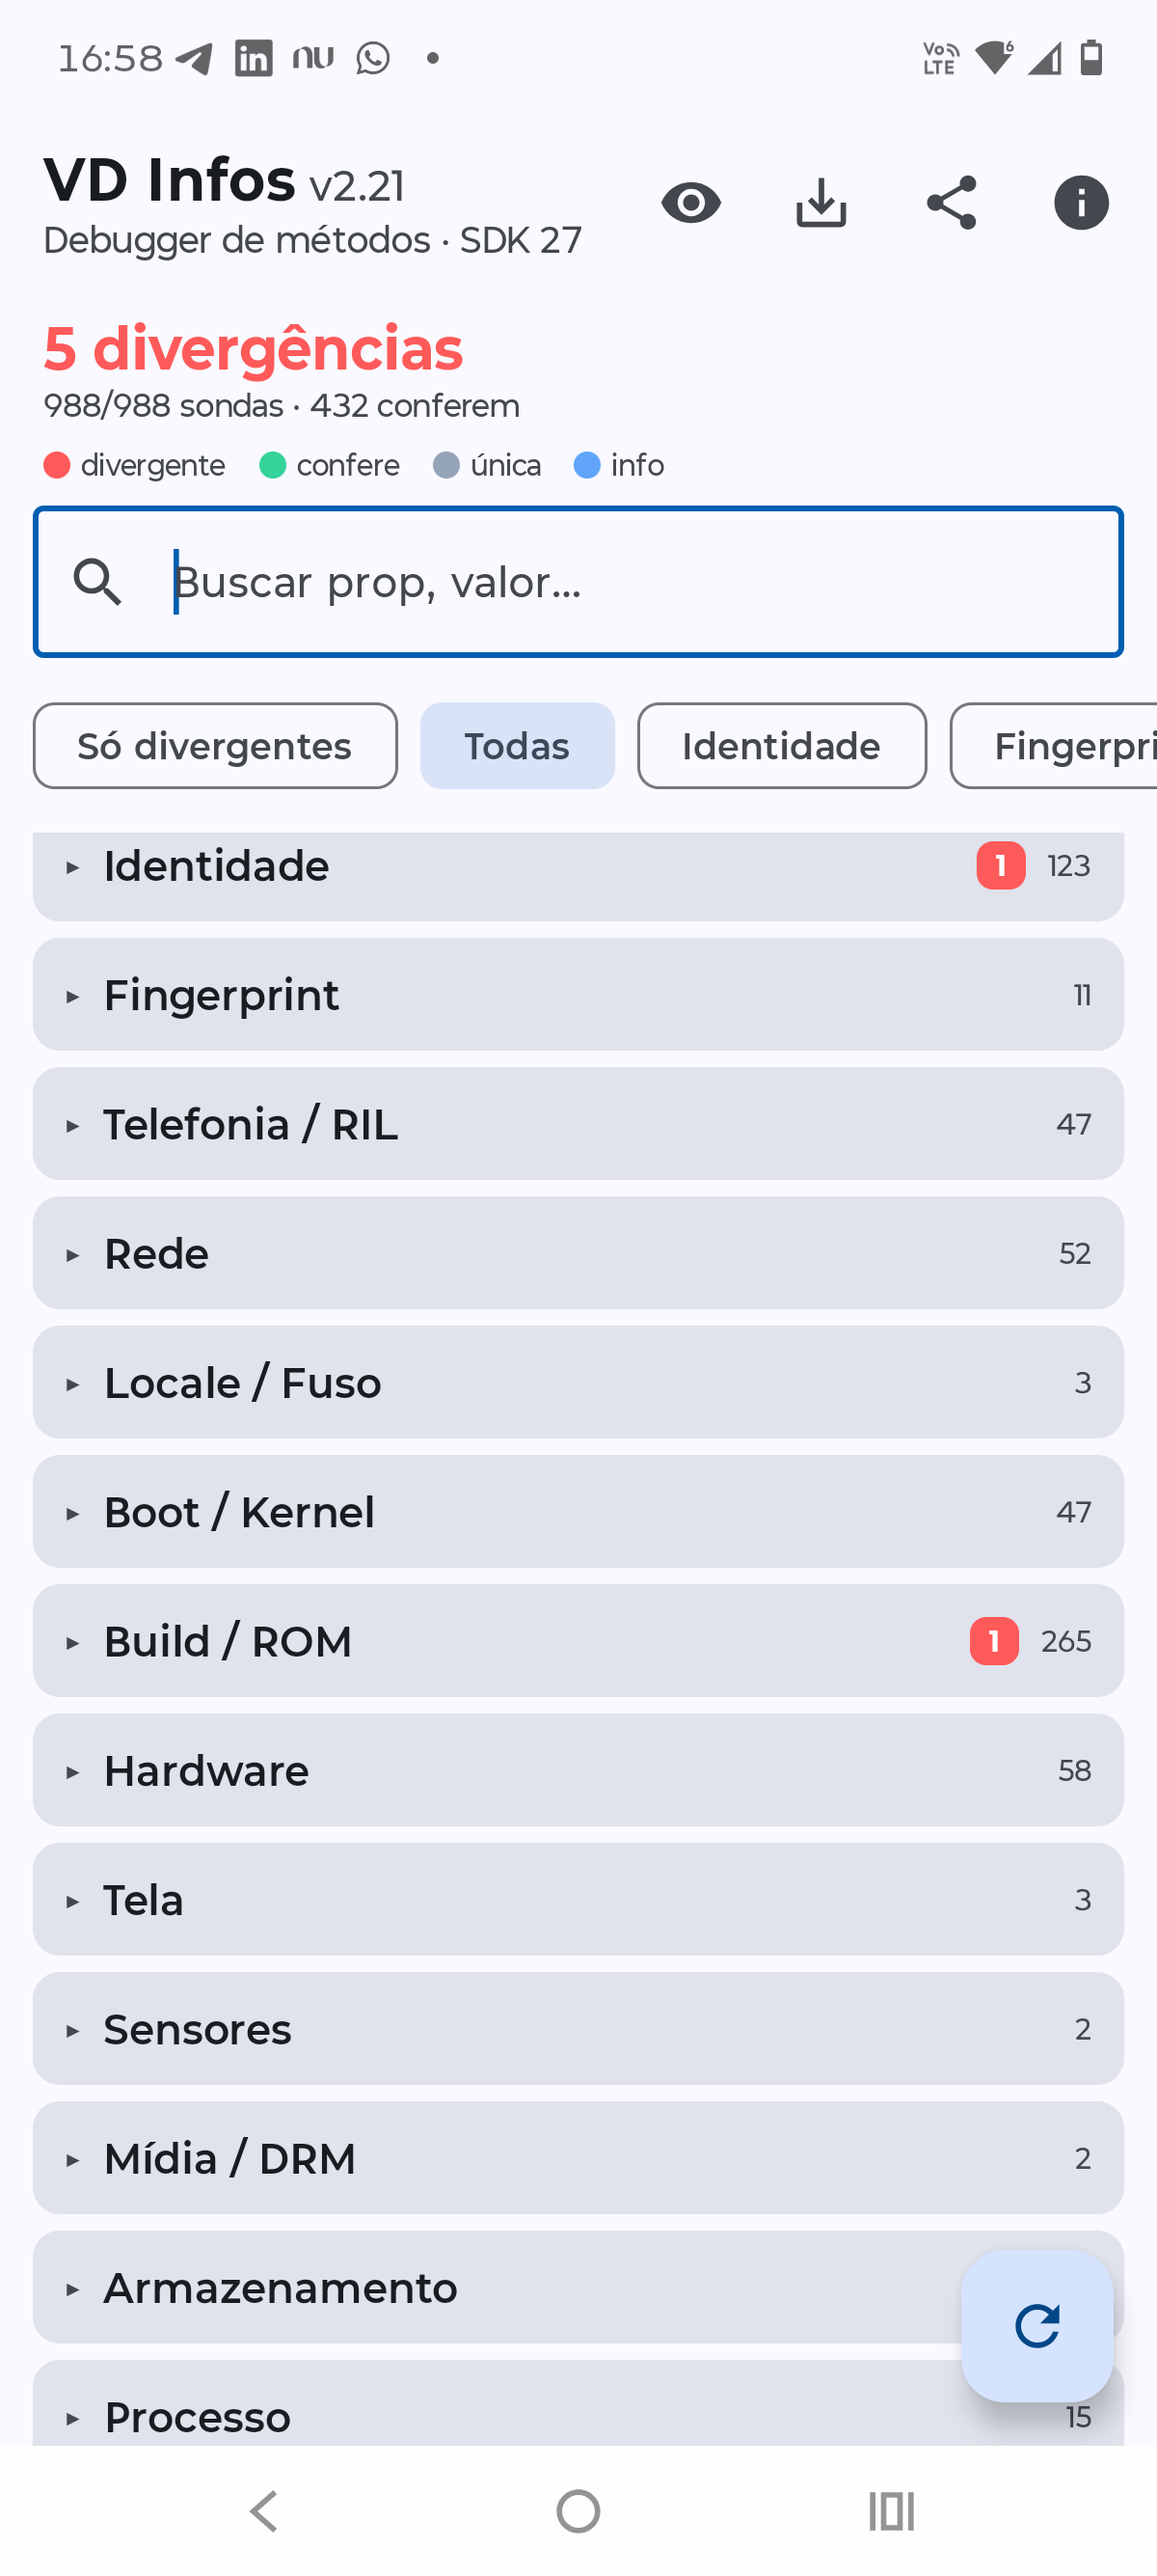
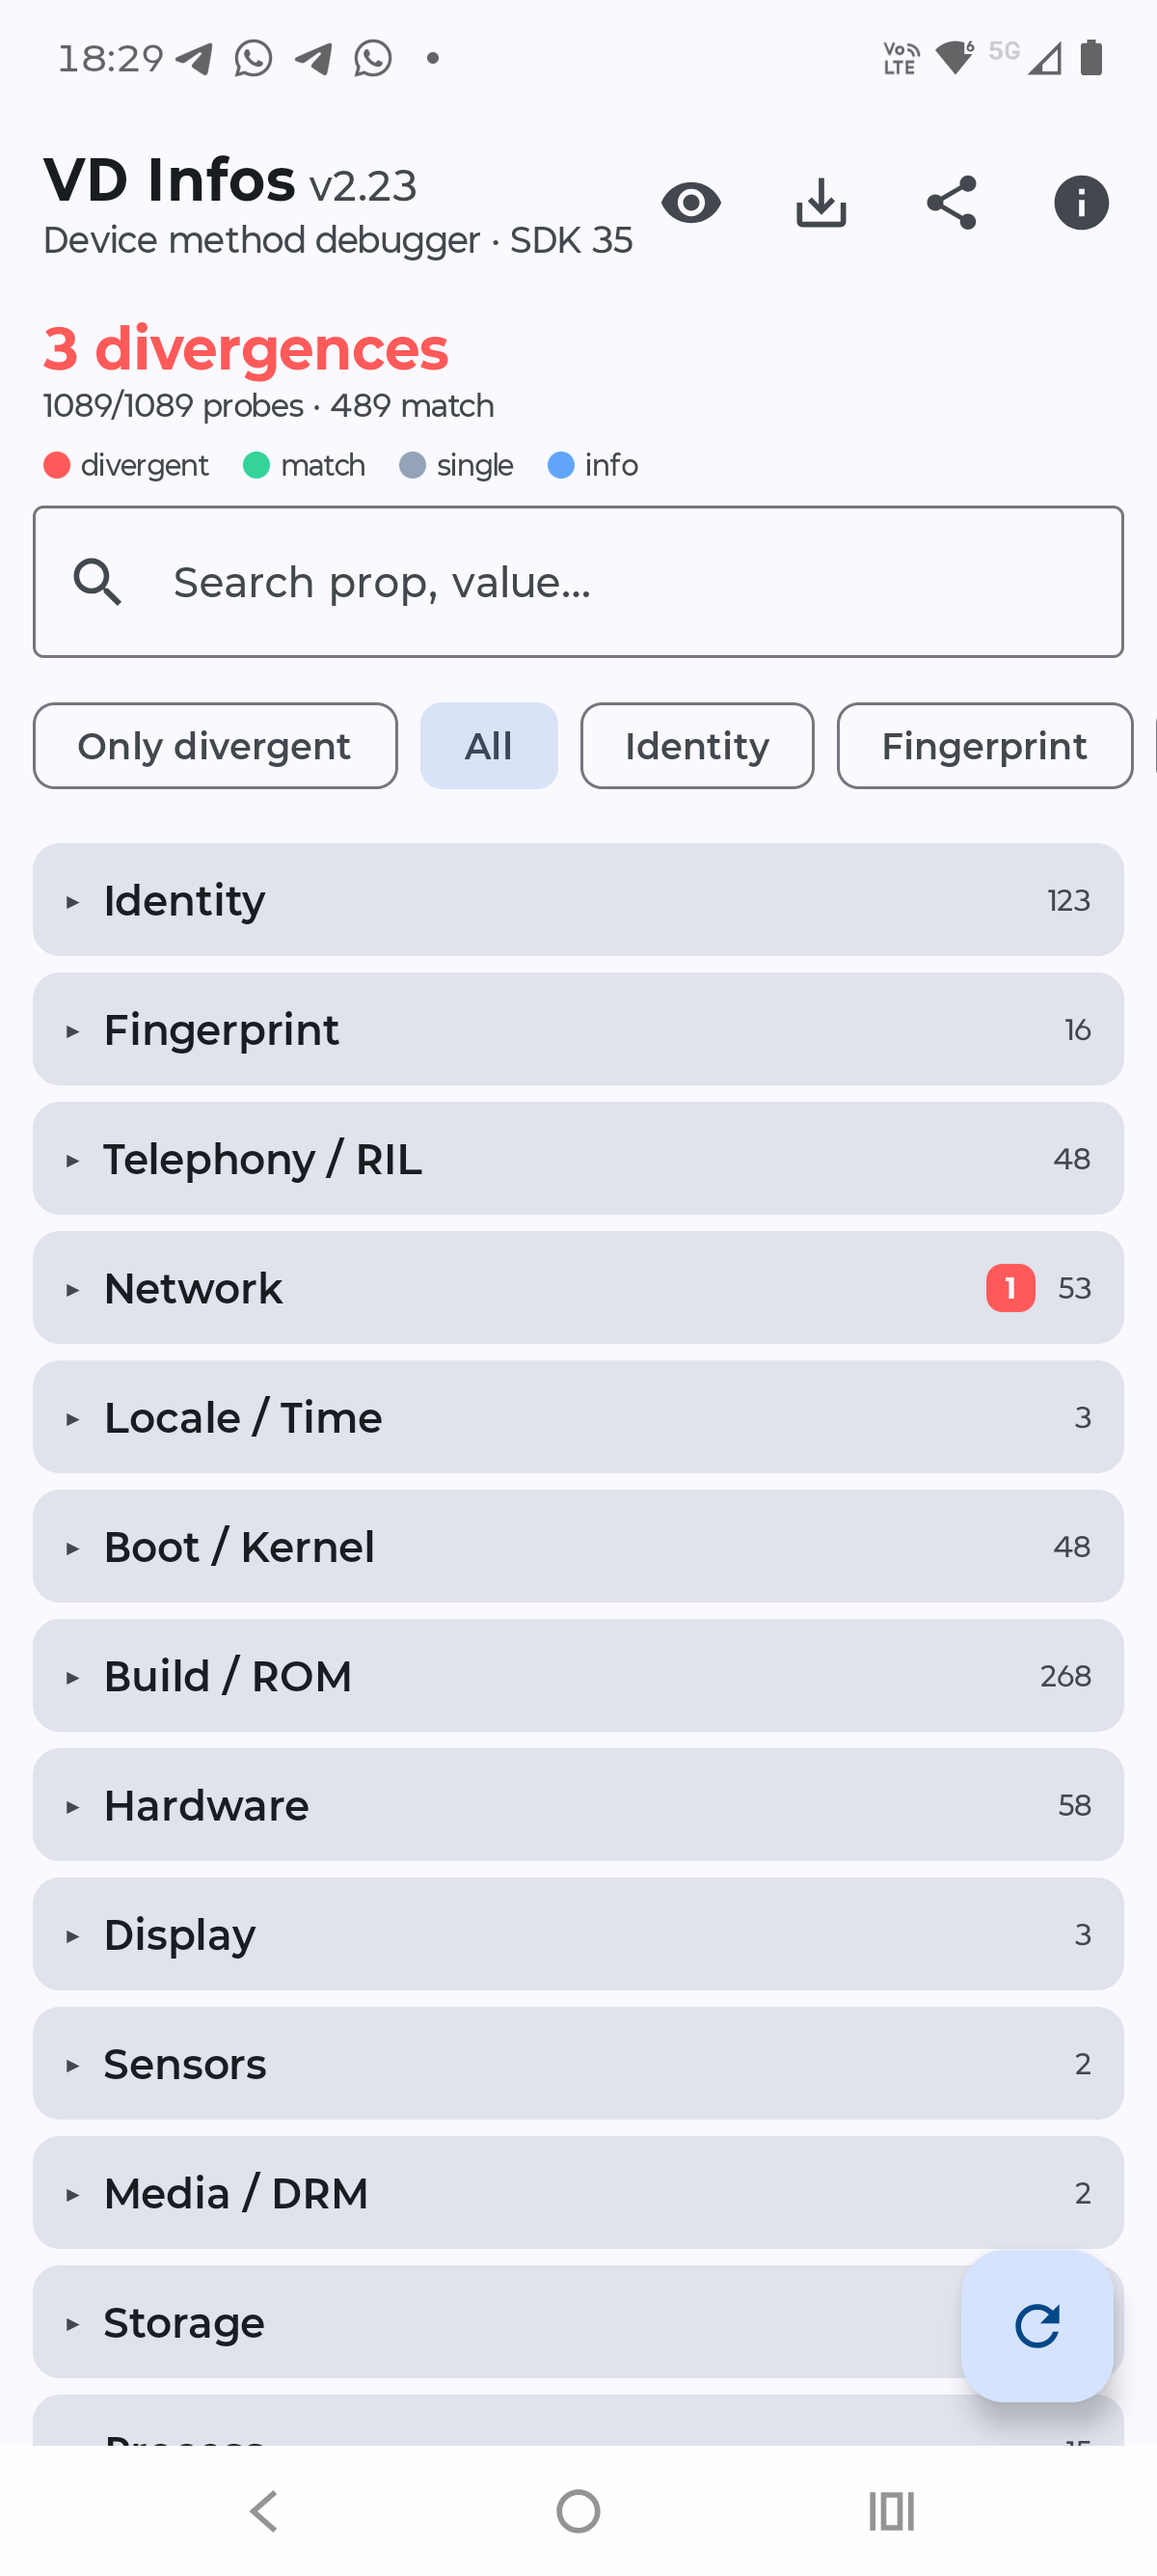
docs: refresh app screenshots in README (22 languages)

diff --git a/README.ar.md b/README.ar.md
@@ -38,6 +38,7 @@
 <p align="center">
   <img src="images/vdinfos-01.png" height="420"/>
   <img src="images/vdinfos-02.png" height="420"/>
+  <img src="images/vdinfos-03.png" height="420"/>
 </p>
 
 ---

diff --git a/README.cs.md b/README.cs.md
@@ -38,6 +38,7 @@
 <p align="center">
   <img src="images/vdinfos-01.png" height="420"/>
   <img src="images/vdinfos-02.png" height="420"/>
+  <img src="images/vdinfos-03.png" height="420"/>
 </p>
 
 ---

diff --git a/README.de.md b/README.de.md
@@ -38,6 +38,7 @@
 <p align="center">
   <img src="images/vdinfos-01.png" height="420"/>
   <img src="images/vdinfos-02.png" height="420"/>
+  <img src="images/vdinfos-03.png" height="420"/>
 </p>
 
 ---

diff --git a/README.es.md b/README.es.md
@@ -38,6 +38,7 @@
 <p align="center">
   <img src="images/vdinfos-01.png" height="420"/>
   <img src="images/vdinfos-02.png" height="420"/>
+  <img src="images/vdinfos-03.png" height="420"/>
 </p>
 
 ---

diff --git a/README.fa.md b/README.fa.md
@@ -38,6 +38,7 @@
 <p align="center">
   <img src="images/vdinfos-01.png" height="420"/>
   <img src="images/vdinfos-02.png" height="420"/>
+  <img src="images/vdinfos-03.png" height="420"/>
 </p>
 
 ---

diff --git a/README.fr.md b/README.fr.md
@@ -38,6 +38,7 @@
 <p align="center">
   <img src="images/vdinfos-01.png" height="420"/>
   <img src="images/vdinfos-02.png" height="420"/>
+  <img src="images/vdinfos-03.png" height="420"/>
 </p>
 
 ---

diff --git a/README.hi.md b/README.hi.md
@@ -38,6 +38,7 @@
 <p align="center">
   <img src="images/vdinfos-01.png" height="420"/>
   <img src="images/vdinfos-02.png" height="420"/>
+  <img src="images/vdinfos-03.png" height="420"/>
 </p>
 
 ---

diff --git a/README.id.md b/README.id.md
@@ -38,6 +38,7 @@
 <p align="center">
   <img src="images/vdinfos-01.png" height="420"/>
   <img src="images/vdinfos-02.png" height="420"/>
+  <img src="images/vdinfos-03.png" height="420"/>
 </p>
 
 ---

diff --git a/README.it.md b/README.it.md
@@ -38,6 +38,7 @@
 <p align="center">
   <img src="images/vdinfos-01.png" height="420"/>
   <img src="images/vdinfos-02.png" height="420"/>
+  <img src="images/vdinfos-03.png" height="420"/>
 </p>
 
 ---

diff --git a/README.ja.md b/README.ja.md
@@ -38,6 +38,7 @@
 <p align="center">
   <img src="images/vdinfos-01.png" height="420"/>
   <img src="images/vdinfos-02.png" height="420"/>
+  <img src="images/vdinfos-03.png" height="420"/>
 </p>
 
 ---

diff --git a/README.ko.md b/README.ko.md
@@ -38,6 +38,7 @@
 <p align="center">
   <img src="images/vdinfos-01.png" height="420"/>
   <img src="images/vdinfos-02.png" height="420"/>
+  <img src="images/vdinfos-03.png" height="420"/>
 </p>
 
 ---

diff --git a/README.md b/README.md
@@ -38,6 +38,7 @@
 <p align="center">
   <img src="images/vdinfos-01.png" height="420"/>
   <img src="images/vdinfos-02.png" height="420"/>
+  <img src="images/vdinfos-03.png" height="420"/>
 </p>
 
 ---
